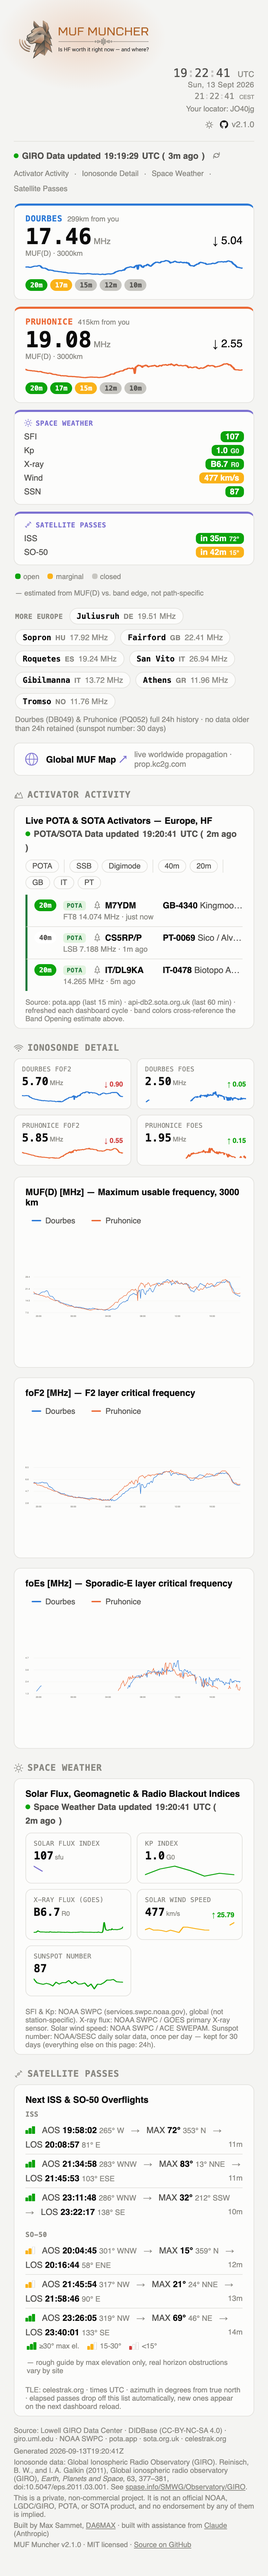
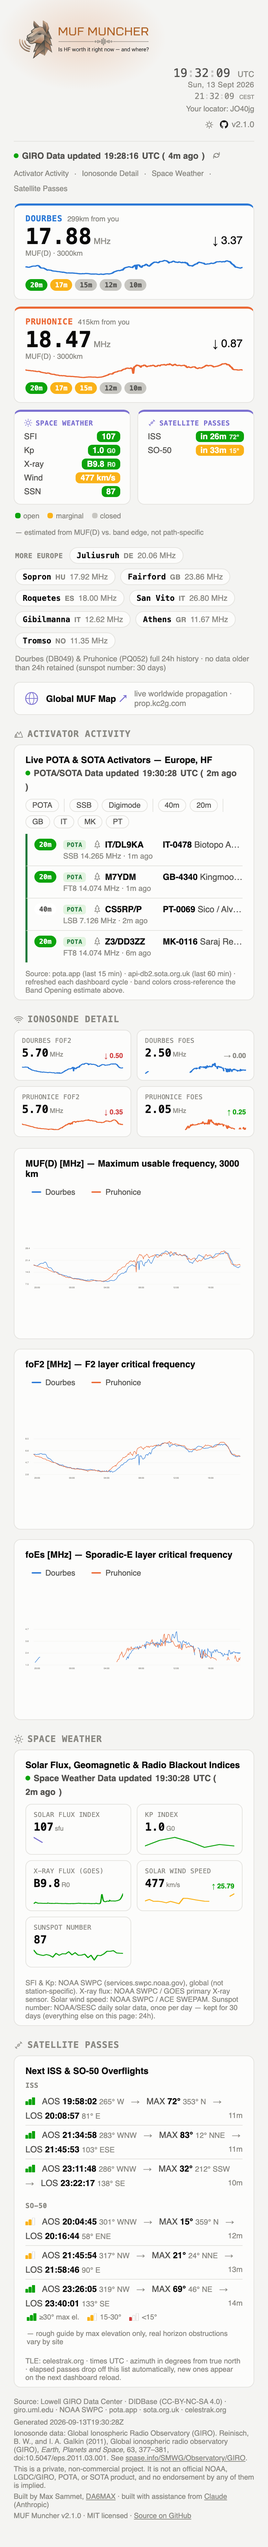
v2.1.1: equalize Satellite Passes / Space Weather tile heights
Satellite Passes only has 2 rows to Space Weather's 5, so sized to its
own content it came out visibly shorter sitting right next to it.
Wrapped both in a small nested flex group (align-items: stretch) so
they match height regardless of row count, without pulling the taller
station cards elsewhere in the hero row into the same stretch.

diff --git a/muf.css b/muf.css
@@ -231,6 +231,11 @@
     flex: 0 0 168px; border-top-color: var(--neutral-series);
     padding: 10px 14px; display: flex; flex-direction: column; gap: 4px;
   }
+  /* Stretches its two tiles to match each other's height regardless of how
+     many rows each has - scoped to just this pair via a nested flex
+     container, so it doesn't also pull in the (taller) station cards next
+     to it in .hero-row. */
+  .hero-glance-group { display: flex; align-items: stretch; flex-wrap: wrap; gap: 10px; }
   .hero-sw-tile .sw-title { display: flex; align-items: center; gap: 5px; font-family: var(--font-mono); font-size: 10px; font-weight: 700; text-transform: uppercase; letter-spacing: .04em; color: var(--neutral-series); margin-bottom: 2px; }
   .hero-sw-tile .sw-row { display: flex; align-items: baseline; justify-content: space-between; gap: 6px; font-size: 12px; }
   .hero-sw-tile .sw-row .k { color: var(--text-secondary); }
@@ -415,5 +420,6 @@
 
   @media (max-width: 700px) {
     .kpi-row { grid-template-columns: repeat(2, 1fr); }
-    .hero-sw-tile { flex-basis: 100%; }
+    .hero-glance-group { flex-basis: 100%; }
+    .hero-glance-group .hero-sw-tile { flex: 1 1 140px; }
   }

diff --git a/dashboard_template.html b/dashboard_template.html
@@ -1078,8 +1078,14 @@ swTile.innerHTML = `
   <div class="sw-row"><span class="k">Wind</span>${swBadge(windNum != null ? Math.round(windNum) + ' km/s' : '–', windTier(windNum))}</div>
   <div class="sw-row"><span class="k">SSN</span>${swBadge(ssnNum != null ? String(ssnNum) : '–', ssnTier(ssnNum))}</div>
 `;
-heroRow.appendChild(swTile);
-heroRow.appendChild(satGlanceTile);
+// Grouped and stretched to equal height together, independent of the two
+// station cards next to them - Satellite Passes only has 2 rows to Space
+// Weather's 5, and would otherwise look visibly shorter in the same row.
+const glanceGroup = document.createElement('div');
+glanceGroup.className = 'hero-glance-group';
+glanceGroup.appendChild(swTile);
+glanceGroup.appendChild(satGlanceTile);
+heroRow.appendChild(glanceGroup);
 
 // ---------------------------------------------------------------- POTA activity
 // Cross-references each spot's band against our own MUF-derived band status

diff --git a/muf.py b/muf.py
@@ -23,7 +23,7 @@ from datetime import datetime, timedelta, timezone
 import plotext as plt
 from skyfield.api import EarthSatellite, load, wgs84
 
-VERSION = "2.1.0"
+VERSION = "2.1.1"
 REPO_URL = "https://github.com/mooxle/Muf_Muncher"
 # Self-identifying User-Agent for every outbound fetch - lets GIRO/NOAA/POTA
 # see this is an automated client (and how to reach the maintainer) rather

diff --git a/README.md b/README.md
@@ -125,7 +125,7 @@ GET https://lgdc.uml.edu/fastchar/getbest
 The block above is a readable illustration of the request, not something you can paste directly into a shell — the parentheses in `MUF(D)` and the space in the date are shell-special characters. To actually try it, let `curl --data-urlencode` handle the escaping instead of doing it by hand:
 
 ```bash
-curl -A "MufMuncher/2.1.0 (+https://github.com/mooxle/Muf_Muncher)" -G "https://lgdc.uml.edu/fastchar/getbest" \
+curl -A "MufMuncher/2.1.1 (+https://github.com/mooxle/Muf_Muncher)" -G "https://lgdc.uml.edu/fastchar/getbest" \
   --data-urlencode "ursiCode=DB049" \
   --data-urlencode "charName=foF2,MUF(D),foEs" \
   --data-urlencode "fromDate=2026/07/23 10:00:00" \

diff --git a/CHANGELOG.md b/CHANGELOG.md
@@ -2,6 +2,10 @@
 
 All notable changes to MUF Muncher are documented here.
 
+## [2.1.1] - 2026-09-13
+### Fixed
+- The Satellite Passes hero tile was visibly shorter than Space Weather right next to it - 2 rows (ISS/SO-50) vs. Space Weather's 5, sized independently to content. Both now sit in a small nested flex group that stretches them to equal height, without affecting the (taller) station cards elsewhere in the same row.
+
 ## [2.1.0] - 2026-09-13
 ### Added
 - Satellite Passes glance tile in the hero row, same size as the Space Weather tile: next-pass countdown ("in 47m") and max elevation for ISS and SO-50, color-rated and updating live every second, linking down to the full card.
